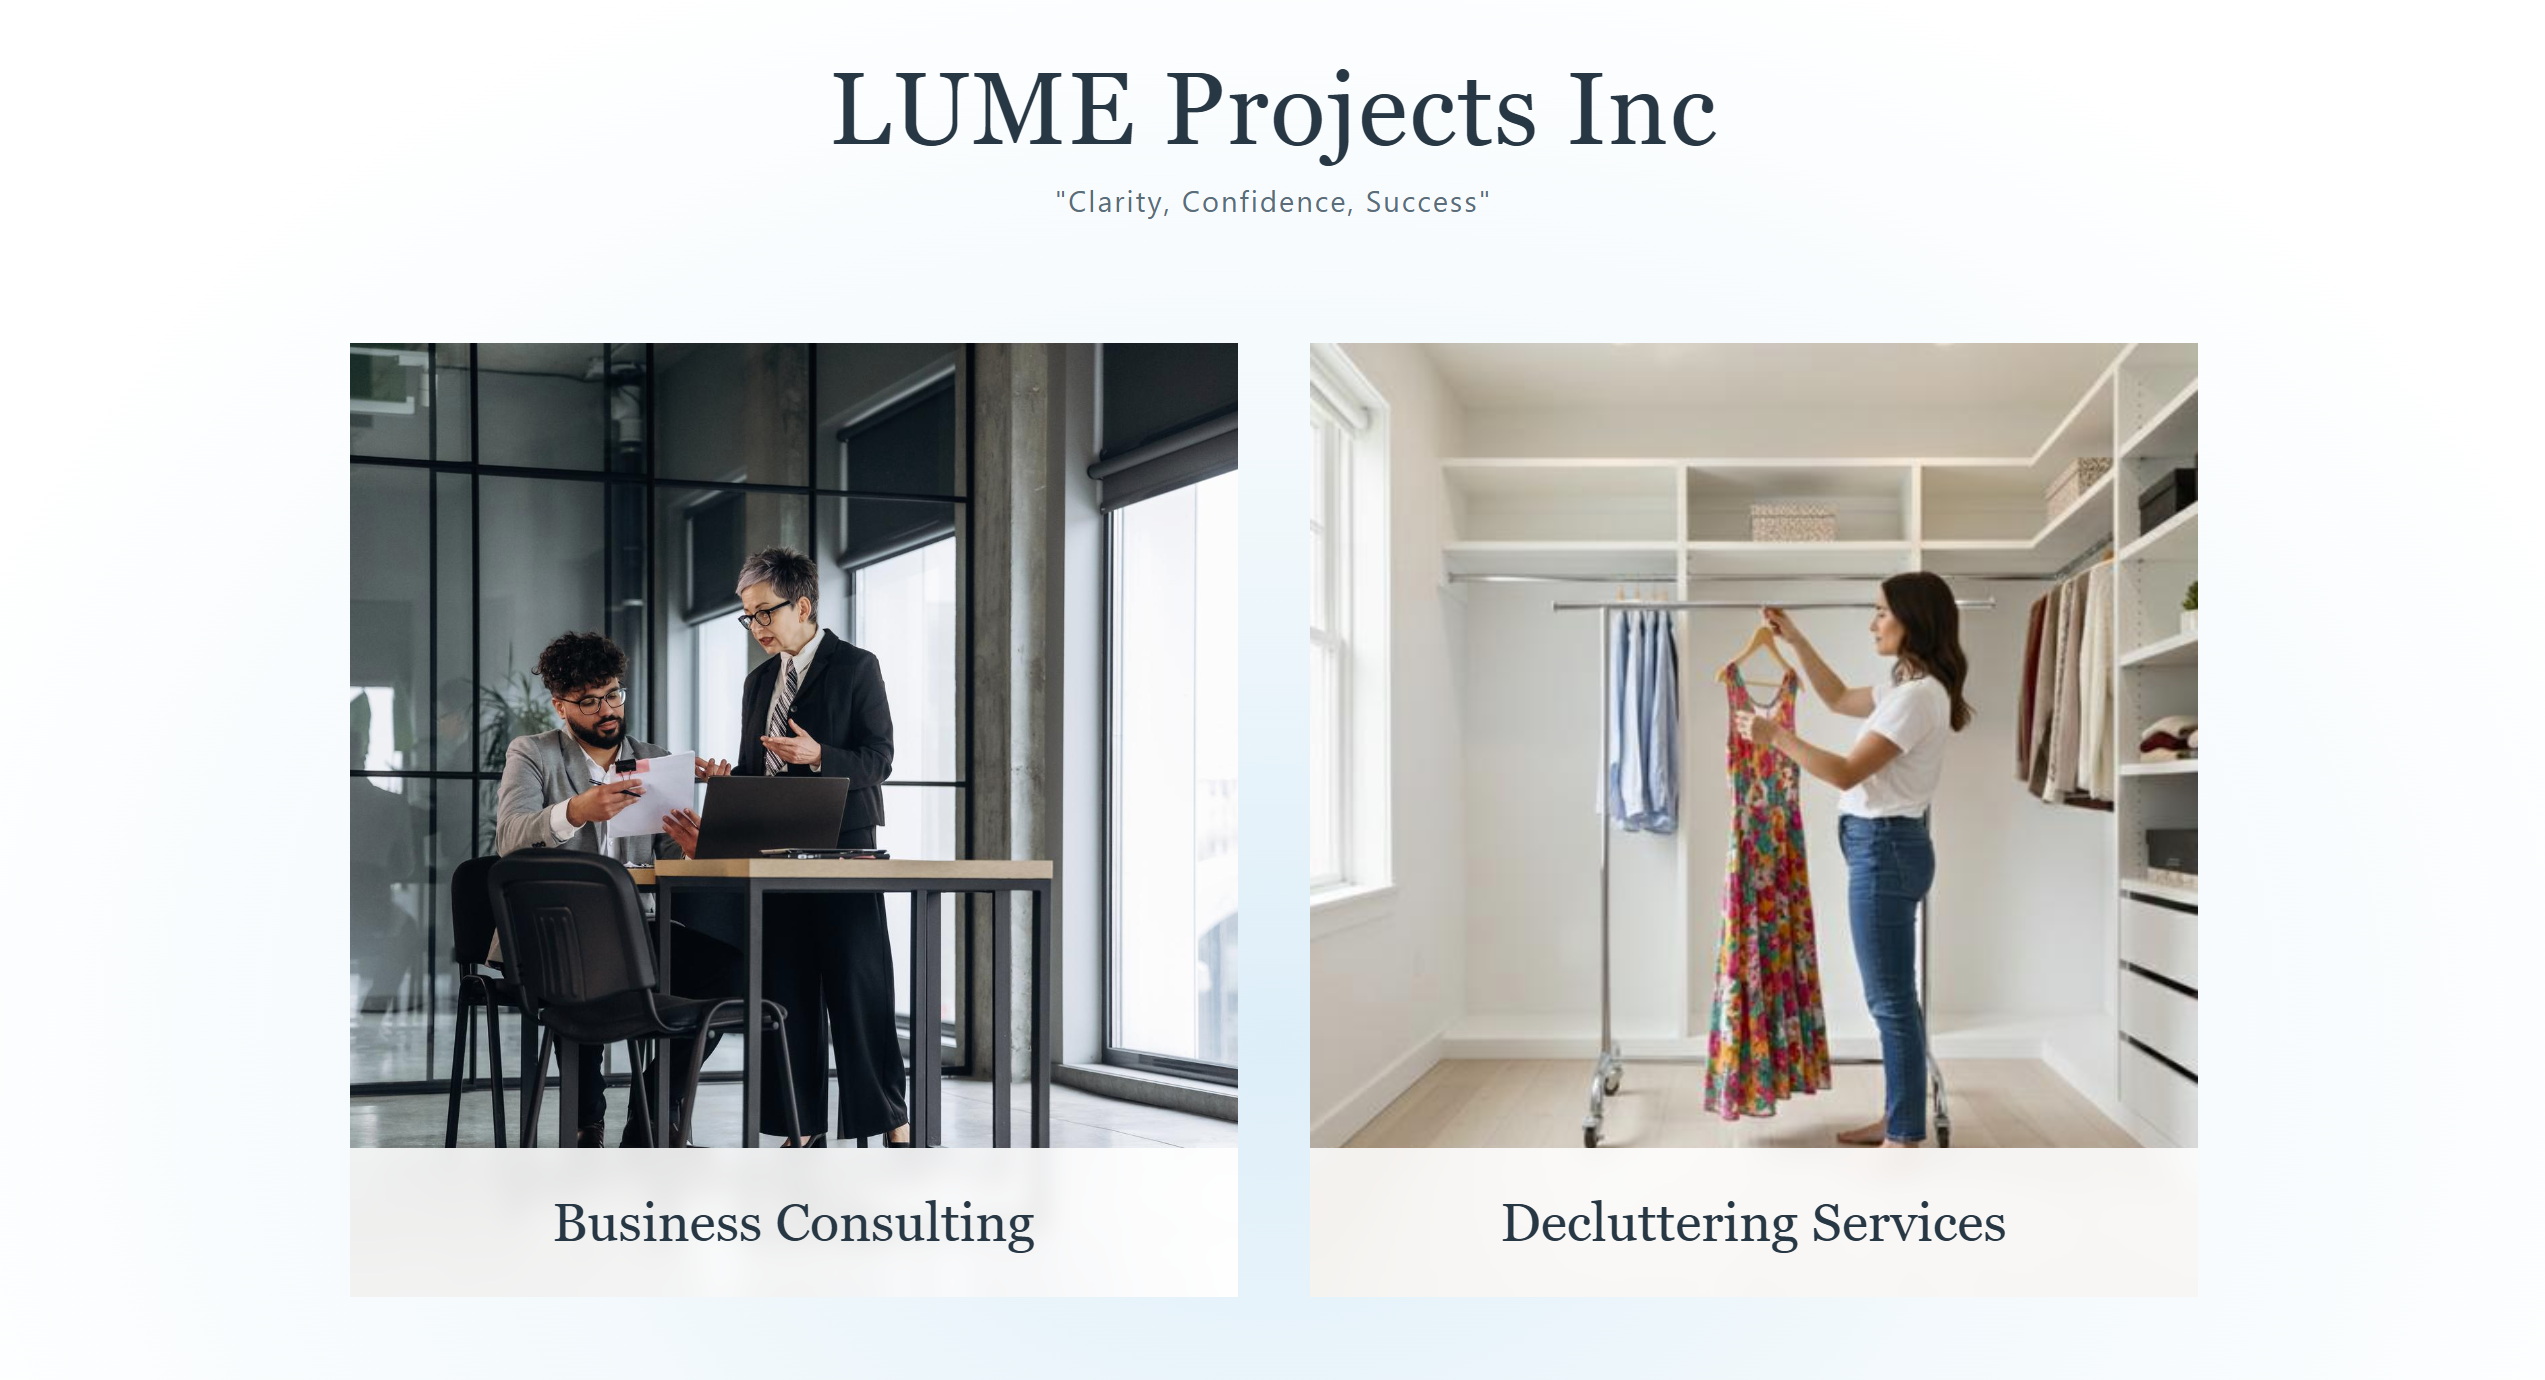
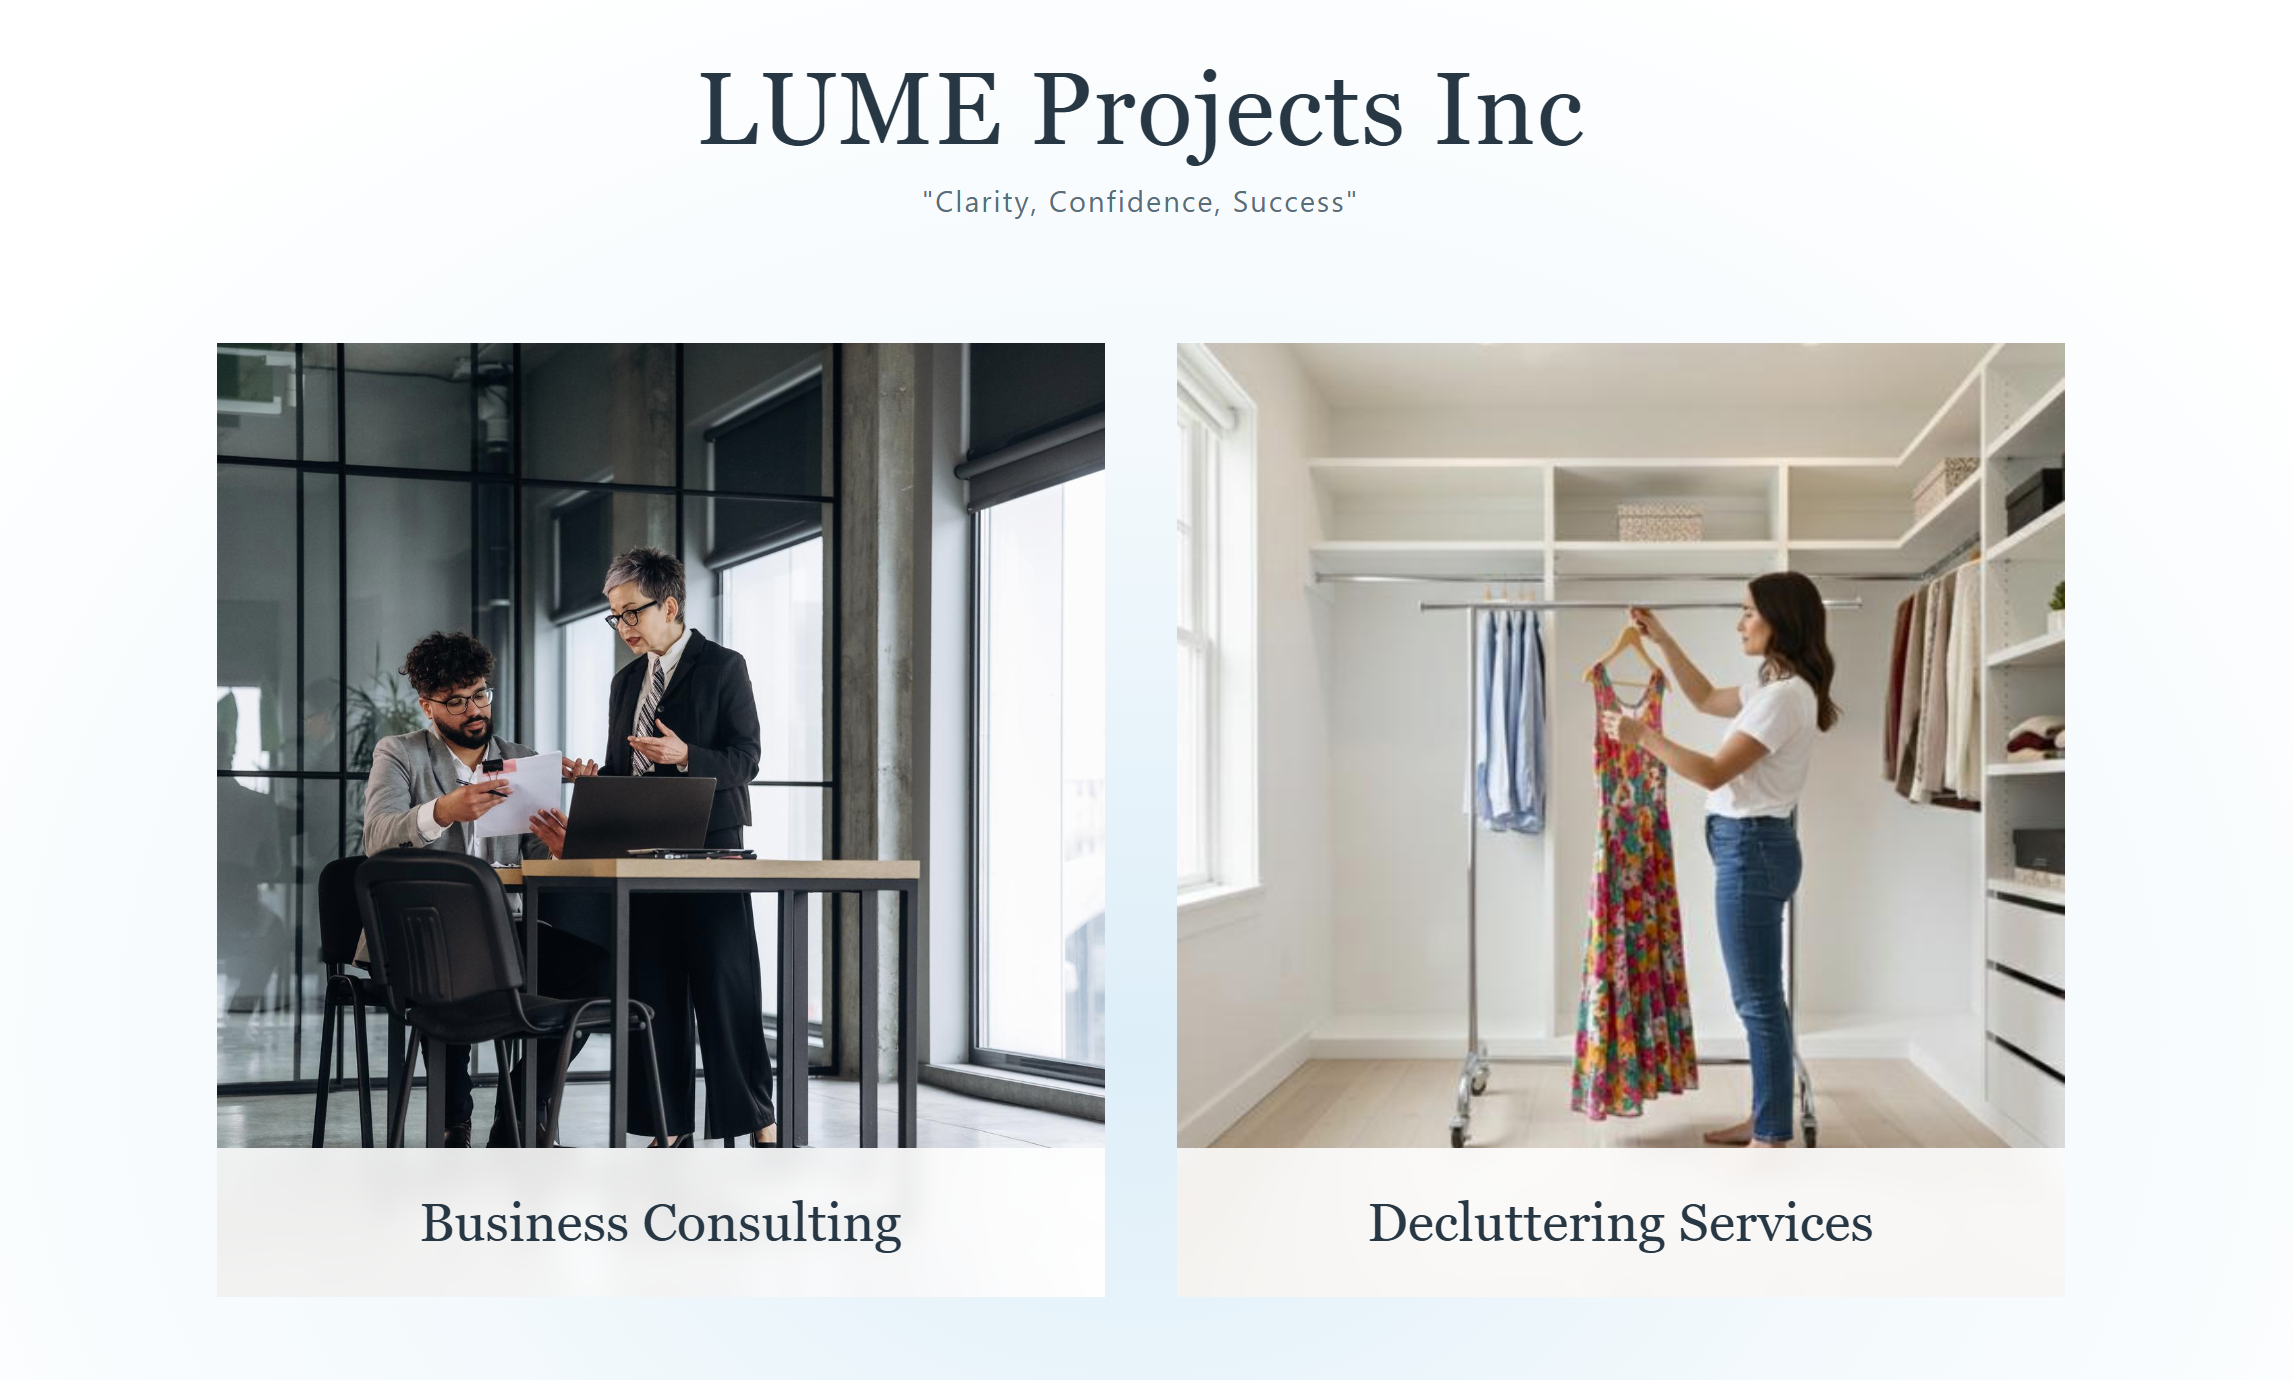
Using different image format

diff --git a/index.html b/index.html
@@ -69,7 +69,7 @@
                     <a href="https://kristinabbbb.github.io/LUME-Website/" target="_blank" rel="noopener noreferrer" class="project-link">
                         <span class="project-status">In progress</span>
                         <h3 class="project-title">LUME Projects | Responsive Business Website</h3>
-                        <img src="./assets/Thumbnail/LUME/Homepage_narrow.png" alt="Light airy theme to represent LUME company" class="project-image">
+                        <img src="./assets/Thumbnail/LUME/Homepage.png" alt="Light airy theme to represent LUME company" class="project-image">
                         <p class="project-description">A responsive website I'm developing for a business consulting and decluttering company. I designed a split-screen homepage to help visitors navigate between the two services, with a layout that adapts from desktop to mobile. I'm building it from scratch using HTML, CSS, and JavaScript, focusing on clean design and intuitive navigation.</p>
                         <span class="view-project">View Live Website</span>
                     </a>
